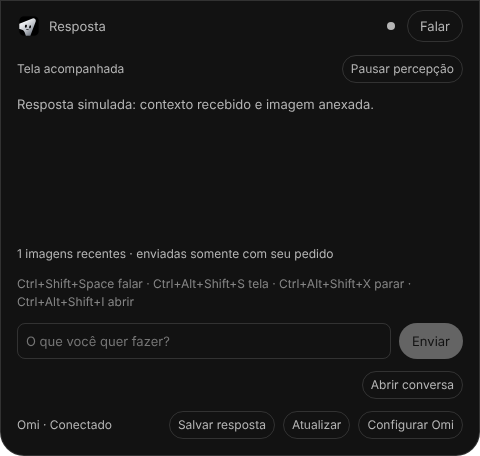
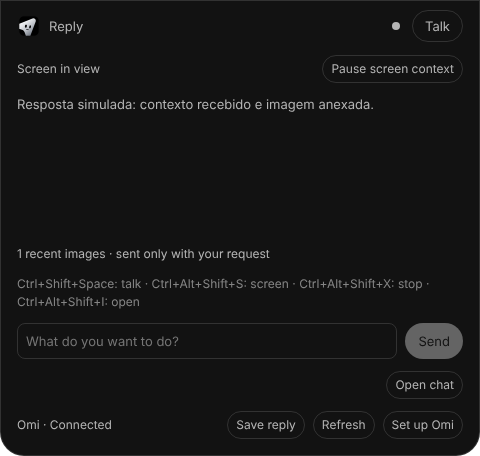
feat(island): show the island in the app's language
The island's labels, status and error messages, the Omi status messages and
the window title now come from native.island.* in the locale catalogs. The
page is repainted when the app's language changes. Speech synthesis uses the
language's tag instead of a fixed pt-BR. A language without a pack falls back
to English.

Model-facing prompt text and the content saved to Omi keep their current
wording.

Claude-Session: https://claude.ai/code/session_01FPJCpjXiAoqKxdRfLovGdo

diff --git a/docs/verification/dynamic-island.md b/docs/verification/dynamic-island.md
@@ -145,6 +145,13 @@ Não verificado nesta rodada: voz real do macOS, microfone, atalhos globais
 reais, captura real da tela e conta Omi real, incluindo a busca
 `memories/vector/search` e a gravação com escopo `memories:write`.
 
+### Idioma da ilha
+
+Os textos da ilha vêm de `native.island.*` em `src/locales/en.json` e seguem o
+idioma escolhido no app; sem tradução, aparecem em inglês. `pt-br.json` traz a
+versão atual. O texto enviado ao modelo (instruções sobre imagens e contexto
+Omi) e o conteúdo salvo no Omi (`Pergunta:` / `Resposta:`) não são traduzidos.
+
 ## Limites conhecidos
 
 A voz depende das vozes instaladas no sistema. Sem voz disponível, a resposta
